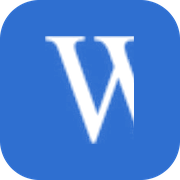
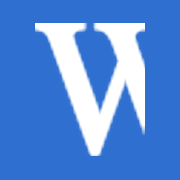
修复图标残缺并让 WASIO 在页面内落地
问题一：顶栏与标签页图标「只露出一部分 W」
  实测原因有两个：
  1. W 字形只占画布 52%，16px 下仅 7x9px，笔画被抗锯齿吃掉，
     看起来像残缺（并非像素数识别错误，原图与生成尺寸都正确）；
  2. 圆角遮罩在小尺寸下与字形边界互相干扰，16/32px 时 W 的左臂
     被切碎成竖条纹，四角还留下半透明彩边（表现为杂点）。
  对策：
  - 用形态学膨胀把 W 笔画加粗（保持原字形，不换字体），
    并把边距从 0.17 收到 0.08，W 在 16px 下由 7x9 增至 10x13（占 81%）；
  - 底色改为直角：浏览器给标签页图标自带遮罩，自己再加圆角反而产生杂点。
    直角版实测无彩边、任意尺寸下 W 都完整清晰。

问题二：WASIO 未在页面内落地
  - 新增 assets/wasio-word.png（完整词标，透明底），放在页脚顶部，
    五个页面统一显示，品牌在站内可见。

问题三：页脚需要外链
  - 「个人整理的竞赛试卷资料」改为指向 B 站主页
    https://space.bilibili.com/1382640092，新窗口打开（rel=noopener）；
  - 页脚新增 .footer-brand / .footer-line / 链接样式；
  - question.html 原有的键盘提示保留。

验收：页脚与链接 39/39、图标 22/22、题库页 12/12、试卷标签 10/10、
考点导航页 44/44、全量数据全部通过。

diff --git a/assets/app.css b/assets/app.css
@@ -772,6 +772,33 @@ select.ctl:focus {
   line-height: 1.8;
 }
 
+/* 页脚品牌词标：本站作者标识 */
+.footer-brand {
+  display: block;
+  height: 22px;
+  width: auto;
+  margin-bottom: 10px;
+  /* 词标是深色字，浅灰页脚上对比略弱，降一点不透明度更协调 */
+  opacity: 0.75;
+}
+
+.footer-center .footer-brand { margin-left: auto; margin-right: auto; }
+
+.footer-line { margin: 0; }
+
+.footer a {
+  color: var(--ink-soft);
+  text-decoration: underline;
+  text-decoration-color: var(--line-strong);
+  text-underline-offset: 2px;
+  transition: color 0.16s, text-decoration-color 0.16s;
+}
+
+.footer a:hover {
+  color: var(--accent);
+  text-decoration-color: var(--accent);
+}
+
 /* ---------------------------------------------------------- 响应式 */
 
 @media (max-width: 720px) {

diff --git a/question.html b/question.html
@@ -46,8 +46,11 @@
 </main>
 
 <footer class="footer">
-  物理竞赛题库 · 内容来自个人整理的竞赛试卷资料，仅供学习交流使用。<br>
-  提示：可用键盘 ← → 切换上一题 / 下一题。
+  <img class="footer-brand" src="assets/wasio-word.png" alt="WASIO" height="22">
+  <p class="footer-line">
+    物理竞赛题库 · 内容来自<a href="https://space.bilibili.com/1382640092" target="_blank" rel="noopener">个人整理的竞赛试卷资料</a>，仅供学习交流使用。
+  </p>
+  <p class="footer-line">提示：可用键盘 ← → 切换上一题 / 下一题。</p>
 </footer>
 
 <script src="assets/app.js"></script>

diff --git a/index.html b/index.html
@@ -59,7 +59,10 @@
 </main>
 
 <footer class="footer footer-center">
-  物理竞赛题库 · 内容来自个人整理的竞赛试卷资料，仅供学习交流使用。
+  <img class="footer-brand" src="assets/wasio-word.png" alt="WASIO" height="22">
+  <p class="footer-line">
+    物理竞赛题库 · 内容来自<a href="https://space.bilibili.com/1382640092" target="_blank" rel="noopener">个人整理的竞赛试卷资料</a>，仅供学习交流使用。
+  </p>
 </footer>
 
 <script src="assets/app.js"></script>

diff --git a/library.html b/library.html
@@ -47,7 +47,10 @@
 </main>
 
 <footer class="footer">
-  物理竞赛题库 · 内容来自个人整理的竞赛试卷资料，仅供学习交流使用。
+  <img class="footer-brand" src="assets/wasio-word.png" alt="WASIO" height="22">
+  <p class="footer-line">
+    物理竞赛题库 · 内容来自<a href="https://space.bilibili.com/1382640092" target="_blank" rel="noopener">个人整理的竞赛试卷资料</a>，仅供学习交流使用。
+  </p>
 </footer>
 
 <script src="assets/app.js"></script>

diff --git a/paper.html b/paper.html
@@ -33,7 +33,10 @@
 </main>
 
 <footer class="footer">
-  物理竞赛题库 · 内容来自个人整理的竞赛试卷资料，仅供学习交流使用。
+  <img class="footer-brand" src="assets/wasio-word.png" alt="WASIO" height="22">
+  <p class="footer-line">
+    物理竞赛题库 · 内容来自<a href="https://space.bilibili.com/1382640092" target="_blank" rel="noopener">个人整理的竞赛试卷资料</a>，仅供学习交流使用。
+  </p>
 </footer>
 
 <script src="assets/app.js"></script>

diff --git a/tags.html b/tags.html
@@ -51,7 +51,10 @@
 </main>
 
 <footer class="footer">
-  物理竞赛题库 · 内容来自个人整理的竞赛试卷资料，仅供学习交流使用。
+  <img class="footer-brand" src="assets/wasio-word.png" alt="WASIO" height="22">
+  <p class="footer-line">
+    物理竞赛题库 · 内容来自<a href="https://space.bilibili.com/1382640092" target="_blank" rel="noopener">个人整理的竞赛试卷资料</a>，仅供学习交流使用。
+  </p>
 </footer>
 
 <script src="assets/app.js"></script>
